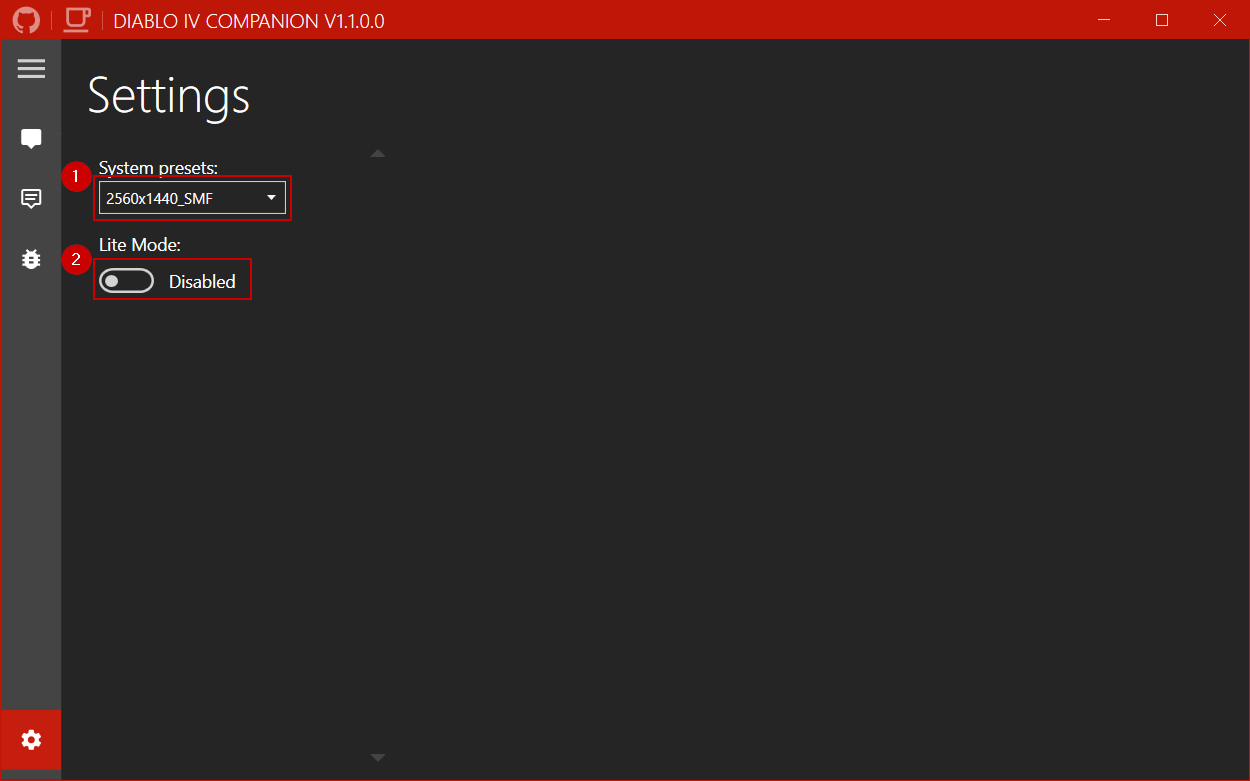
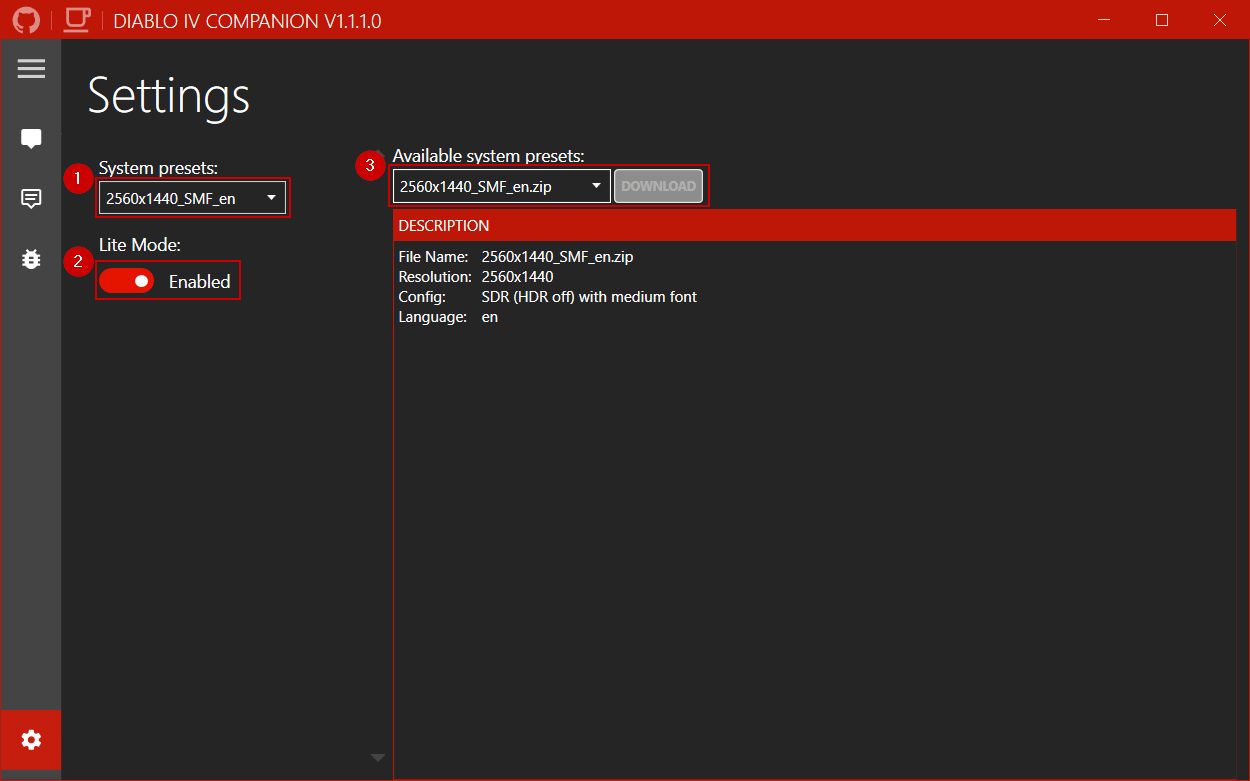
Added download manager for system presets.

Changed region(s): [[0.2808, 0.1844, 0.9984, 0.4302], [0.0312, 0.2151, 0.2496, 0.3995], [0.2808, 0.0, 0.312, 0.0307]]

diff --git a/D4Companion/ViewModels/SettingsViewModel.cs b/D4Companion/ViewModels/SettingsViewModel.cs
@@ -14,6 +14,7 @@ using System.Linq;
 using D4Companion.Events;
 using System.Windows;
 using Prism.Commands;
+using System.Threading.Tasks;
 
 namespace D4Companion.ViewModels
 {
@@ -29,6 +30,7 @@ namespace D4Companion.ViewModels
         private ObservableCollection<string> _systemPresets = new ObservableCollection<string>();
         private ObservableCollection<SystemPreset> _communitySystemPresets = new ObservableCollection<SystemPreset>();
 
+        private bool _downloadInProgress;
         private SystemPreset _selectedCommunityPreset = new SystemPreset();
         private bool _systemPresetChangeAllowed = true;
 
@@ -40,6 +42,8 @@ namespace D4Companion.ViewModels
         {
             // Init IEventAggregator
             _eventAggregator = eventAggregator;
+            _eventAggregator.GetEvent<DownloadSystemPresetCompletedEvent>().Subscribe(HandleDownloadSystemPresetCompletedEvent);
+            _eventAggregator.GetEvent<SystemPresetExtractedEvent>().Subscribe(HandleSystemPresetExtractedEvent);
             _eventAggregator.GetEvent<SystemPresetInfoUpdatedEvent>().Subscribe(HandleSystemPresetInfoUpdatedEvent);
             _eventAggregator.GetEvent<ToggleOverlayEvent>().Subscribe(HandleToggleOverlayEvent);
             _eventAggregator.GetEvent<ToggleOverlayFromGUIEvent>().Subscribe(HandleToggleOverlayFromGUIEvent);
@@ -120,13 +124,18 @@ namespace D4Companion.ViewModels
             get => _settingsManager.Settings.SelectedSystemPreset;
             set
             {
-                _settingsManager.Settings.SelectedSystemPreset = value;
-                RaisePropertyChanged(nameof(SelectedSystemPreset));
+                if (value != null)
+                {
+                    _settingsManager.Settings.SelectedSystemPreset = value;
+                    RaisePropertyChanged(nameof(SelectedSystemPreset));
 
-                _settingsManager.SaveSettings();
+                    _settingsManager.SaveSettings();
 
-                _eventAggregator.GetEvent<SystemPresetChangedEvent>().Publish();
-                _eventAggregator.GetEvent<ReloadAffixesGuiRequestEvent>().Publish();
+                    _eventAggregator.GetEvent<SystemPresetChangedEvent>().Publish();
+                    _eventAggregator.GetEvent<ReloadAffixesGuiRequestEvent>().Publish();
+
+                    DownloadSystemPresetCommand?.RaiseCanExecuteChanged();
+                }
             }
         }
 
@@ -137,6 +146,7 @@ namespace D4Companion.ViewModels
             {
                 _systemPresetChangeAllowed = value;
                 RaisePropertyChanged(nameof(SystemPresetChangeAllowed));
+                DownloadSystemPresetCommand?.RaiseCanExecuteChanged();
             }
         }
 
@@ -147,6 +157,7 @@ namespace D4Companion.ViewModels
             {
                 _selectedCommunityPreset = value;
                 RaisePropertyChanged(nameof(SelectedCommunityPreset));
+                DownloadSystemPresetCommand?.RaiseCanExecuteChanged();
             }
         }
 
@@ -155,6 +166,22 @@ namespace D4Companion.ViewModels
         // Start of Event handlers region
 
         #region Event handlers
+
+        private void HandleDownloadSystemPresetCompletedEvent(string fileName)
+        {
+            Task.Factory.StartNew(() =>
+            {
+                _systemPresetManager.ExtractSystemPreset(fileName);
+            });
+        }
+
+        private void HandleSystemPresetExtractedEvent()
+        {
+            _downloadInProgress = false;
+            DownloadSystemPresetCommand?.RaiseCanExecuteChanged();
+
+            InitSystemPresets();
+        }
 
         private void HandleSystemPresetInfoUpdatedEvent()
         {
@@ -189,29 +216,44 @@ namespace D4Companion.ViewModels
 
         private void InitSystemPresets()
         {
-            // Item affixes
-            string directory = $"Images\\";
-            if (Directory.Exists(directory))
+            Application.Current?.Dispatcher?.Invoke(() =>
             {
-                string[] directoryEntries = Directory.GetDirectories(directory,"*x*").Select(d => new DirectoryInfo(d).Name).ToArray();
-                foreach (string directoryName in directoryEntries)
+                string previousSelectedSystemPreset = SelectedSystemPreset;
+                _systemPresets.Clear();
+
+                string directory = $"Images\\";
+                if (Directory.Exists(directory))
                 {
-                    if (!string.IsNullOrWhiteSpace(directoryName))
+                    string[] directoryEntries = Directory.GetDirectories(directory, "*x*").Select(d => new DirectoryInfo(d).Name).ToArray();
+                    foreach (string directoryName in directoryEntries)
                     {
-                        _systemPresets.Add(directoryName);
-                    }                    
+                        if (!string.IsNullOrWhiteSpace(directoryName))
+                        {
+                            _systemPresets.Add(directoryName);
+                        }
+                    }
                 }
-            }
+
+                // Restore previvous selection.
+                SelectedSystemPreset = SystemPresets.FirstOrDefault(preset => preset.Equals(previousSelectedSystemPreset)) ?? previousSelectedSystemPreset;
+            });   
         }
 
         private bool CanDownloadSystemPresetExecute()
         {
-            return SystemPresetChangeAllowed && SelectedCommunityPreset != null;
+            return SystemPresetChangeAllowed && !_downloadInProgress && SelectedCommunityPreset != null && 
+                !string.IsNullOrWhiteSpace(SelectedCommunityPreset.FileName) && !SelectedSystemPreset.Equals(Path.GetFileNameWithoutExtension(SelectedCommunityPreset.FileName));
         }
 
         private void DownloadSystemPresetExecute()
         {
-            _systemPresetManager.DownloadSystemPreset(SelectedCommunityPreset.FileName);
+            _downloadInProgress = true;
+            DownloadSystemPresetCommand?.RaiseCanExecuteChanged();
+
+            Task.Factory.StartNew(() =>
+            {
+                _systemPresetManager.DownloadSystemPreset(SelectedCommunityPreset.FileName);
+            });
         }
 
         #endregion

diff --git a/D4Companion.Services/SystemPresetManager.cs b/D4Companion.Services/SystemPresetManager.cs
@@ -1,22 +1,18 @@
 using D4Companion.Entities;
 using D4Companion.Events;
 using D4Companion.Interfaces;
+using Microsoft.Extensions.Logging;
 using Prism.Events;
-using System;
-using System.Collections.Generic;
-using System.IO;
-using System.Linq;
-using System.Net.Http;
-using System.Text;
+using System.IO.Compression;
+using System.Reflection;
 using System.Text.Json;
-using System.Threading.Tasks;
-using System.Xml.XPath;
 
 namespace D4Companion.Services
 {
     public class SystemPresetManager : ISystemPresetManager
     {
         private readonly IEventAggregator _eventAggregator;
+        private readonly ILogger _logger;
         private readonly IHttpClientHandler _httpClientHandler;
 
         private List<SystemPreset> _systemPresets = new();
@@ -25,11 +21,14 @@ namespace D4Companion.Services
 
         #region Constructors
 
-        public SystemPresetManager(IEventAggregator eventAggregator, HttpClientHandler httpClientHandler)
+        public SystemPresetManager(IEventAggregator eventAggregator, ILogger<SystemPresetManager> logger, HttpClientHandler httpClientHandler)
         {
             // Init IEventAggregator
             _eventAggregator = eventAggregator;
             _eventAggregator.GetEvent<ApplicationLoadedEvent>().Subscribe(HandleApplicationLoadedEvent);
+
+            // Init logger
+            _logger = logger;
 
             // Init services
             _httpClientHandler = httpClientHandler;
@@ -66,9 +65,25 @@ namespace D4Companion.Services
 
         #region Methods
 
-        public void DownloadSystemPreset(string fileName)
+        public async void DownloadSystemPreset(string fileName)
         {
-            
+            string uri = $"https://github.com/josdemmers/Diablo4Companion/raw/master/downloads/systempresets/{fileName}";
+
+            await _httpClientHandler.DownloadZipSystemPreset(uri);
+        }
+
+        public void ExtractSystemPreset(string fileName)
+        {
+            try
+            {
+                ZipFile.ExtractToDirectory($".\\Images\\{fileName}", ".\\Images", true);
+                _eventAggregator.GetEvent<SystemPresetExtractedEvent>().Publish();
+            }
+            catch (Exception exception)
+            {
+
+                _logger.LogError(exception, MethodBase.GetCurrentMethod()?.Name);
+            }
         }
 
         private async void UpdateSystemPresetInfo()

diff --git a/D4Companion.Services/HttpClientHandler.cs b/D4Companion.Services/HttpClientHandler.cs
@@ -128,6 +128,29 @@ namespace D4Companion.Services
             }
         }
 
+        public async Task DownloadZipSystemPreset(string uri)
+        {
+            Stream? stream = null;
+
+            try
+            {
+                var fileName = Path.GetFileName(uri);
+                if (string.IsNullOrWhiteSpace(fileName)) return;
+
+                stream = await _client.GetStreamAsync(uri);
+                using (var fileStream = File.Create($".\\Images\\{fileName}"))
+                {
+                    stream.CopyTo(fileStream);
+                }
+
+                _eventAggregator.GetEvent<DownloadSystemPresetCompletedEvent>().Publish(fileName);
+            }
+            catch (Exception ex)
+            {
+                _logger.LogError(ex, $"GetRequest({uri}).");
+            }
+        }
+
         #endregion
     }
 }

diff --git a/D4Companion.Events/HttpClientEvents.cs b/D4Companion.Events/HttpClientEvents.cs
@@ -6,6 +6,7 @@ namespace D4Companion.Events
     public class DownloadProgressUpdatedEvent : PubSubEvent<HttpProgress> { }
     public class UploadProgressUpdatedEvent : PubSubEvent<HttpProgress> { }
     public class DownloadCompletedEvent : PubSubEvent<string> { }
+    public class DownloadSystemPresetCompletedEvent : PubSubEvent<string> { }
 
     public class HttpProgress
     {

diff --git a/D4Companion.Interfaces/ISystemPresetManager.cs b/D4Companion.Interfaces/ISystemPresetManager.cs
@@ -12,5 +12,6 @@ namespace D4Companion.Interfaces
         List<SystemPreset> SystemPresets { get; }
 
         void DownloadSystemPreset(string fileName);
+        void ExtractSystemPreset(string fileName);
     }
 }

diff --git a/D4Companion.Events/SystemPresetEvents.cs b/D4Companion.Events/SystemPresetEvents.cs
@@ -10,4 +10,8 @@ namespace D4Companion.Events
     public class SystemPresetInfoUpdatedEvent : PubSubEvent
     {
     }
+
+    public class SystemPresetExtractedEvent : PubSubEvent 
+    {
+    }
 }

diff --git a/D4Companion.Interfaces/IHttpClientHandler.cs b/D4Companion.Interfaces/IHttpClientHandler.cs
@@ -4,5 +4,6 @@
     {
         Task<string> GetRequest(string uri);
         Task DownloadZip(string uri);
+        Task DownloadZipSystemPreset(string uri);
     }
 }
